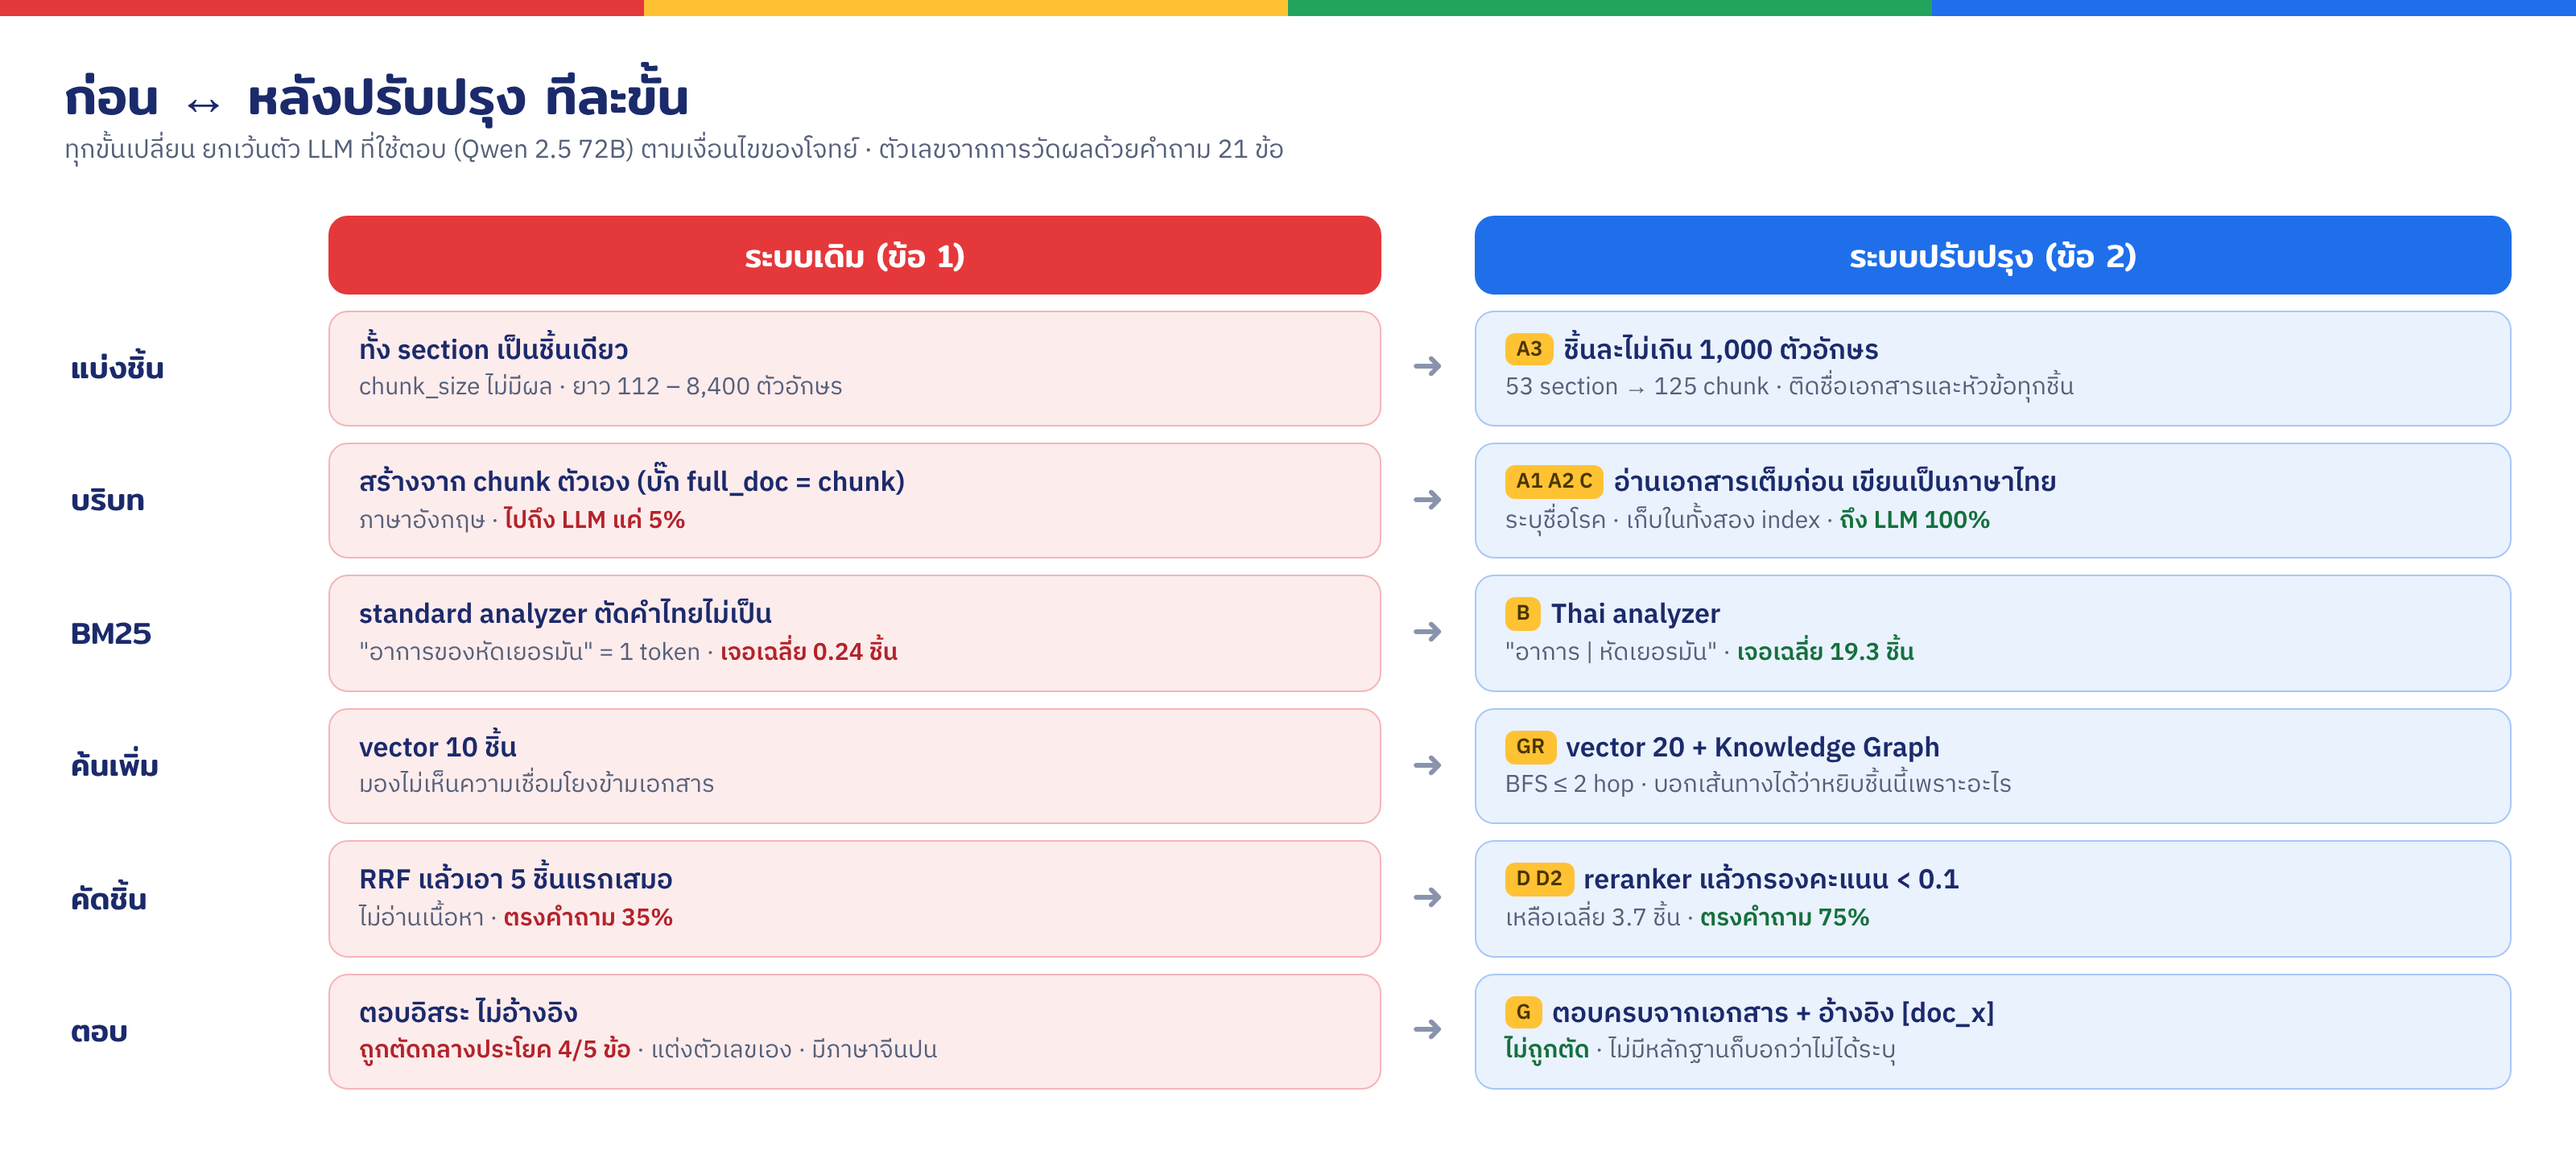
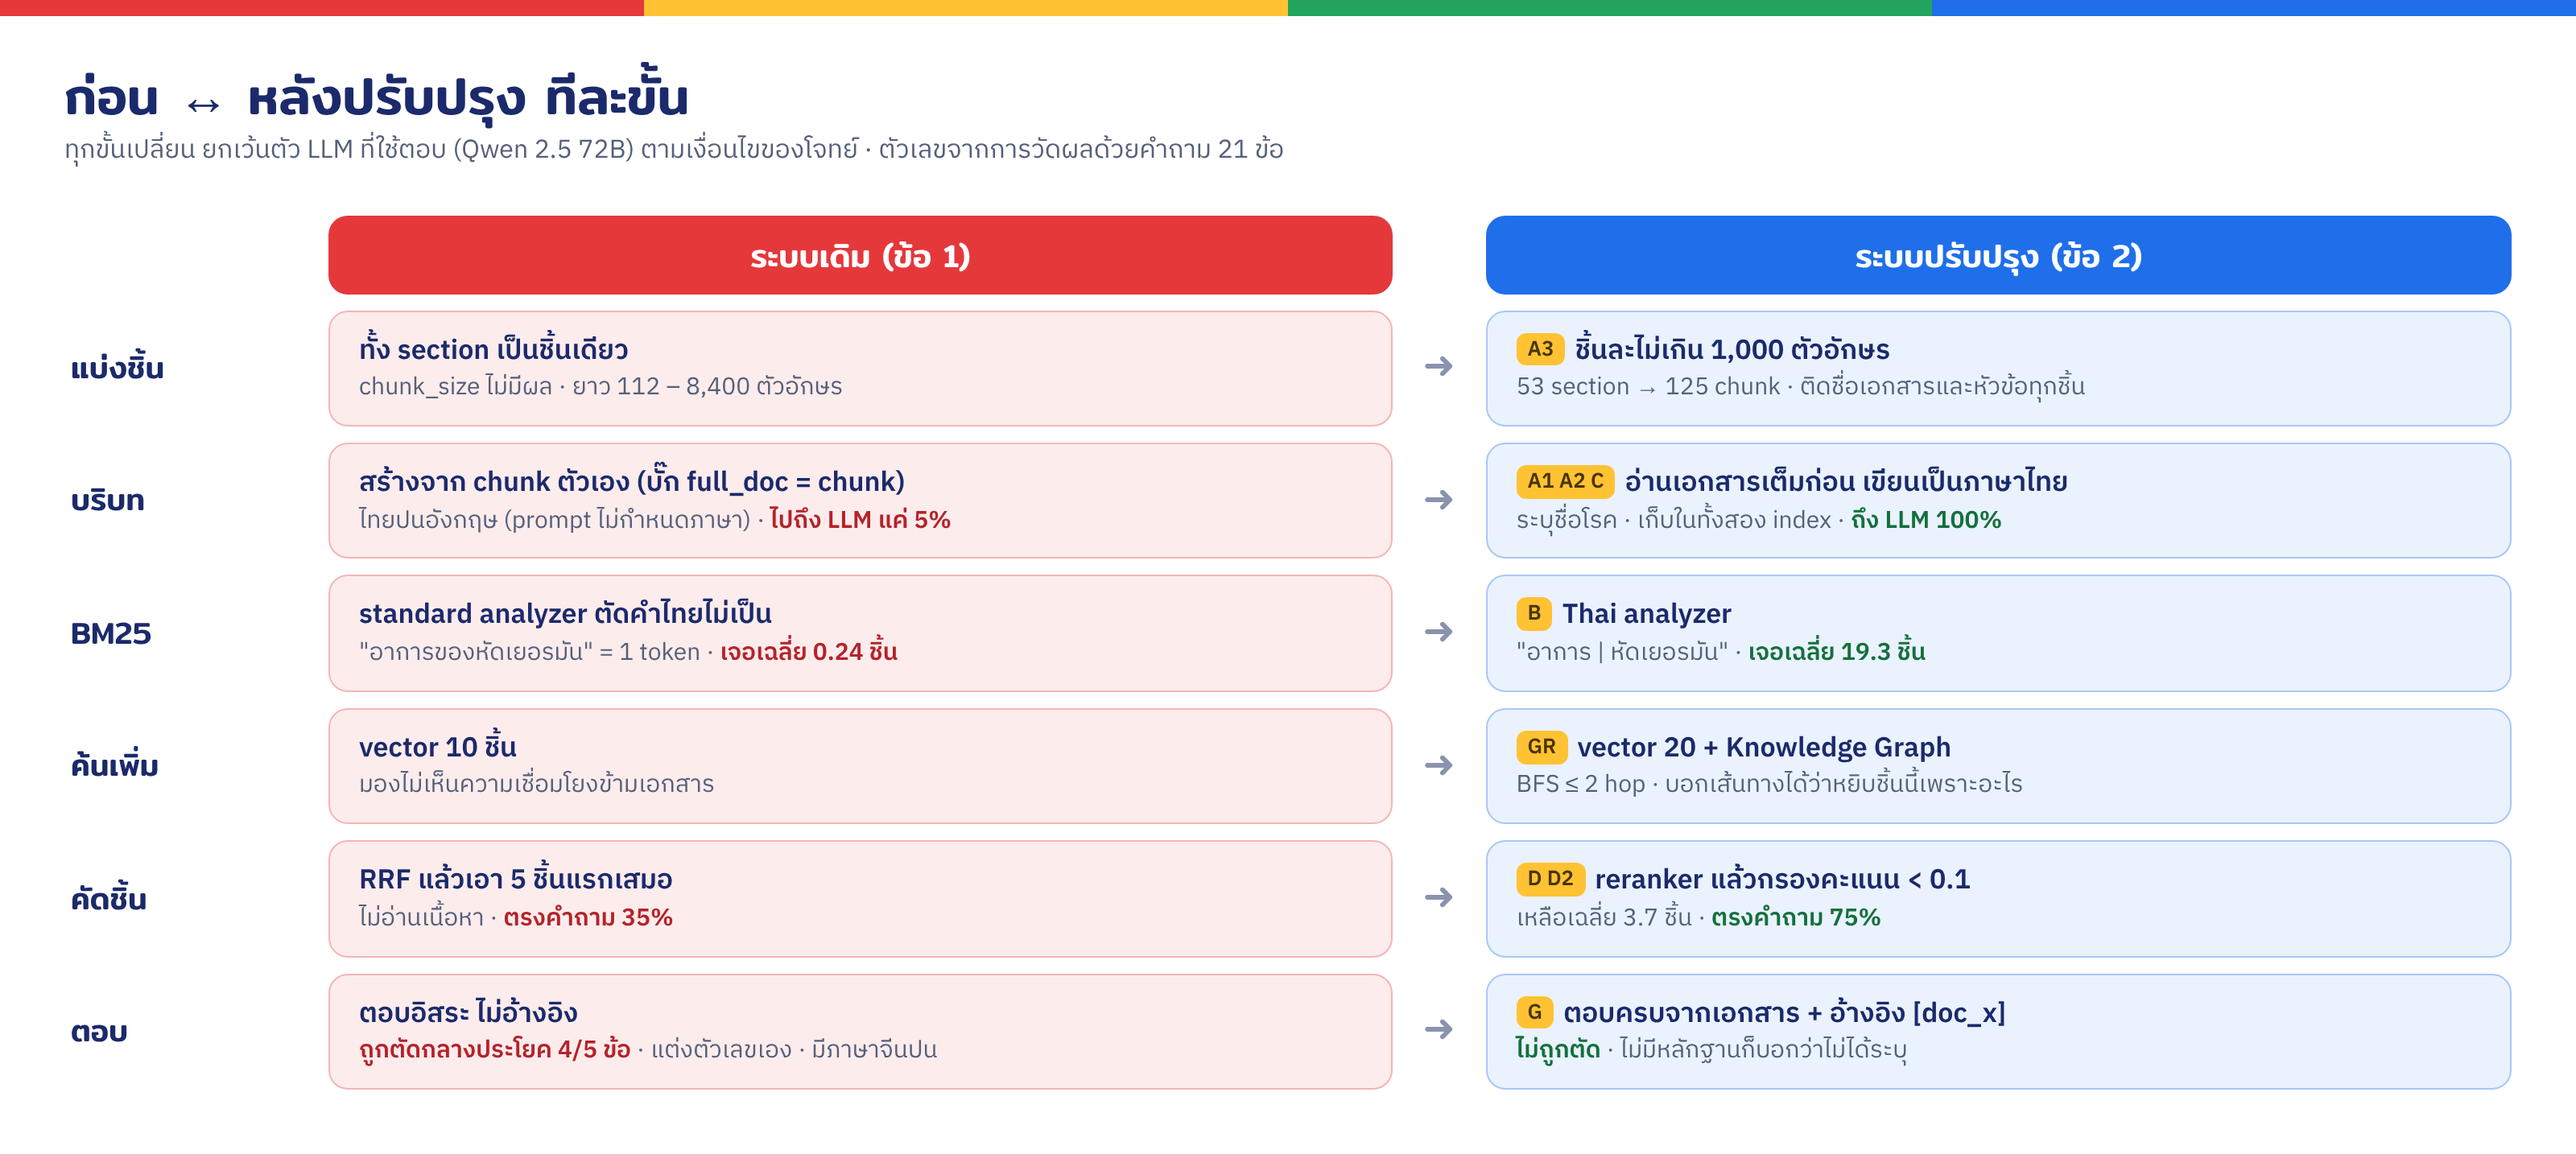
ส่งงาน KDAI NLP Assignment

diff --git a/README.md b/README.md
@@ -79,7 +79,7 @@
 
 1. **BM25 แทบหาอะไรไม่เจอ** คำถามภาษาไทยส่วนใหญ่ได้ผลจาก BM25 0–2 ชิ้น เพราะ `standard` analyzer ตัดคำภาษาไทยไม่ได้ (ภาษาไทยไม่เว้นวรรคระหว่างคำ ข้อความจึงถูกตัดเป็นก้อนยาวที่ไม่ตรงกับคำในคำถาม) การค้นแบบ hybrid จึงเหลือแค่ vector ขาเดียว
 2. **บริบทที่สร้างไว้ไม่ถึง LLM** ช่อง `context` ในผลลัพธ์ว่างทุกรายการ เพราะ `anthropic-vector-index` ไม่ได้เก็บบริบท และ RRF เก็บข้อมูลของเอกสารจากผลชุดแรกที่เจอ เมื่อ BM25 หาไม่เจอ ทุกชิ้นจึงมาจาก vector index ที่ไม่มีบริบท
-3. **บริบทไม่ได้มาจากเอกสารเต็ม** โค้ดส่ง chunk ตัวเองแทนเอกสารเต็ม (`full_doc_content = doc.page_content`) ซึ่งผิดจากหลักของ Contextual Retrieval ที่ต้องให้ LLM เห็นทั้งเอกสาร บริบทที่ได้จึงแค่สรุป chunk ซ้ำ และเป็นภาษาอังกฤษ ทำให้คำถามภาษาไทยจับคำกับบริบทไม่ได้อยู่ดี
+3. **บริบทไม่ได้มาจากเอกสารเต็ม** โค้ดส่ง chunk ตัวเองแทนเอกสารเต็ม (`full_doc_content = doc.page_content`) ซึ่งผิดจากหลักของ Contextual Retrieval ที่ต้องให้ LLM เห็นทั้งเอกสาร บริบทที่ได้จึงแค่สรุป chunk ซ้ำ ไม่ได้เพิ่มข้อมูลจากส่วนอื่นของเอกสาร นอกจากนี้ prompt เป็นภาษาอังกฤษและไม่ได้กำหนดภาษา บริบทจึง**ปนสองภาษา** ตรวจจาก `anthropic-bm25-index` จริง 5 ชิ้นแรกเป็นภาษาอังกฤษ 2 ชิ้น (เช่น *"This chunk is the title and author information of an article about German measles..."*) และภาษาไทย 3 ชิ้น (เช่น *"ภาวะแทรกซ้อนของโรคหัดเยอรมันพบได้น้อยมาก แต่อาจเกิดขึ้นได้บ้าง"*) บริบทภาษาอังกฤษจับคำกับคำถามภาษาไทยไม่ได้ และบางบริบทก็สั้นจนแทบไม่ช่วยค้น
 4. **chunk ยาวเกินไปและยาวไม่เท่ากัน** `chunk_size=256` ไม่มีผลกับ `MarkdownNodeParser` ซึ่งแบ่งตามหัวข้อเท่านั้น chunk ยาวตั้งแต่ 112 ถึง 8,404 ตัวอักษร ชิ้นยาวทำให้ embedding เฉลี่ยหลายเรื่องปนกัน
 5. **คำตอบตอบเกินเอกสาร** ข้อ 4 ตอบว่าวัคซีนได้ผล 97% และ 99% ซึ่งไม่มีอยู่ในเอกสารที่ค้นมา
 6. **คำตอบมีภาษาจีนปนและถูกตัดกลางคัน** ข้อ 1 เปลี่ยนเป็นภาษาจีนกลางประโยค ข้อ 2 และ 5 จบไม่ครบเพราะ `max_tokens=1000`
@@ -121,7 +121,7 @@
 ```mermaid
 flowchart LR
   subgraph OLD["ระบบเดิม"]
-    o1["53 chunk ยาว 112 ถึง 8,404 ตัวอักษร"] --> o2["บริบทอังกฤษจาก chunk ตัวเอง"]
+    o1["53 chunk ยาว 112 ถึง 8,404 ตัวอักษร"] --> o2["บริบทไทยปนอังกฤษ สร้างจาก chunk ตัวเอง"]
     o2 --> o3["BM25 standard 10 ชิ้น"]
     o2 --> o4["vector 10 ชิ้น ไม่มีบริบท"]
     o3 --> o5["RRF"]
